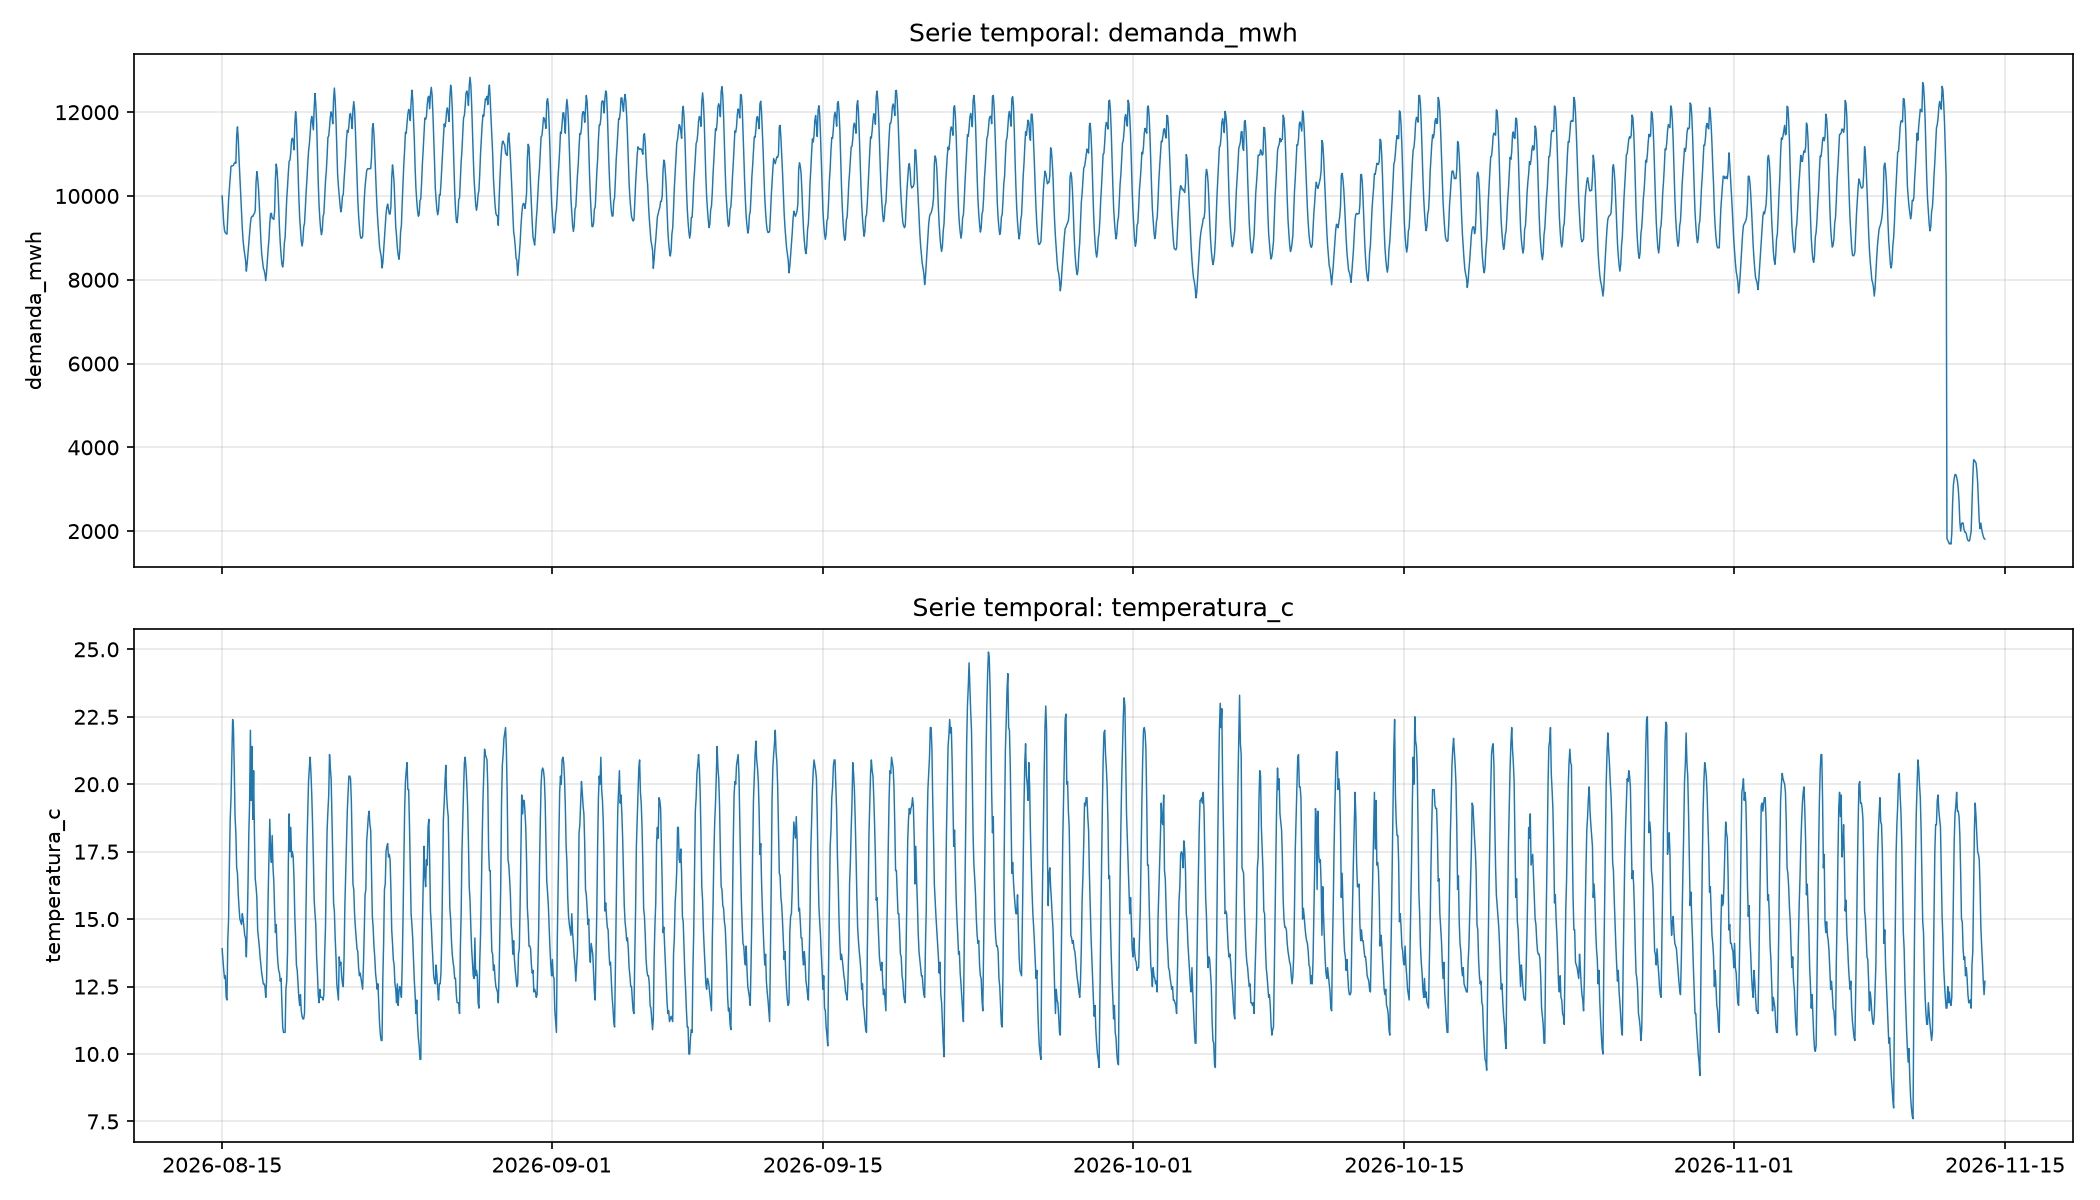
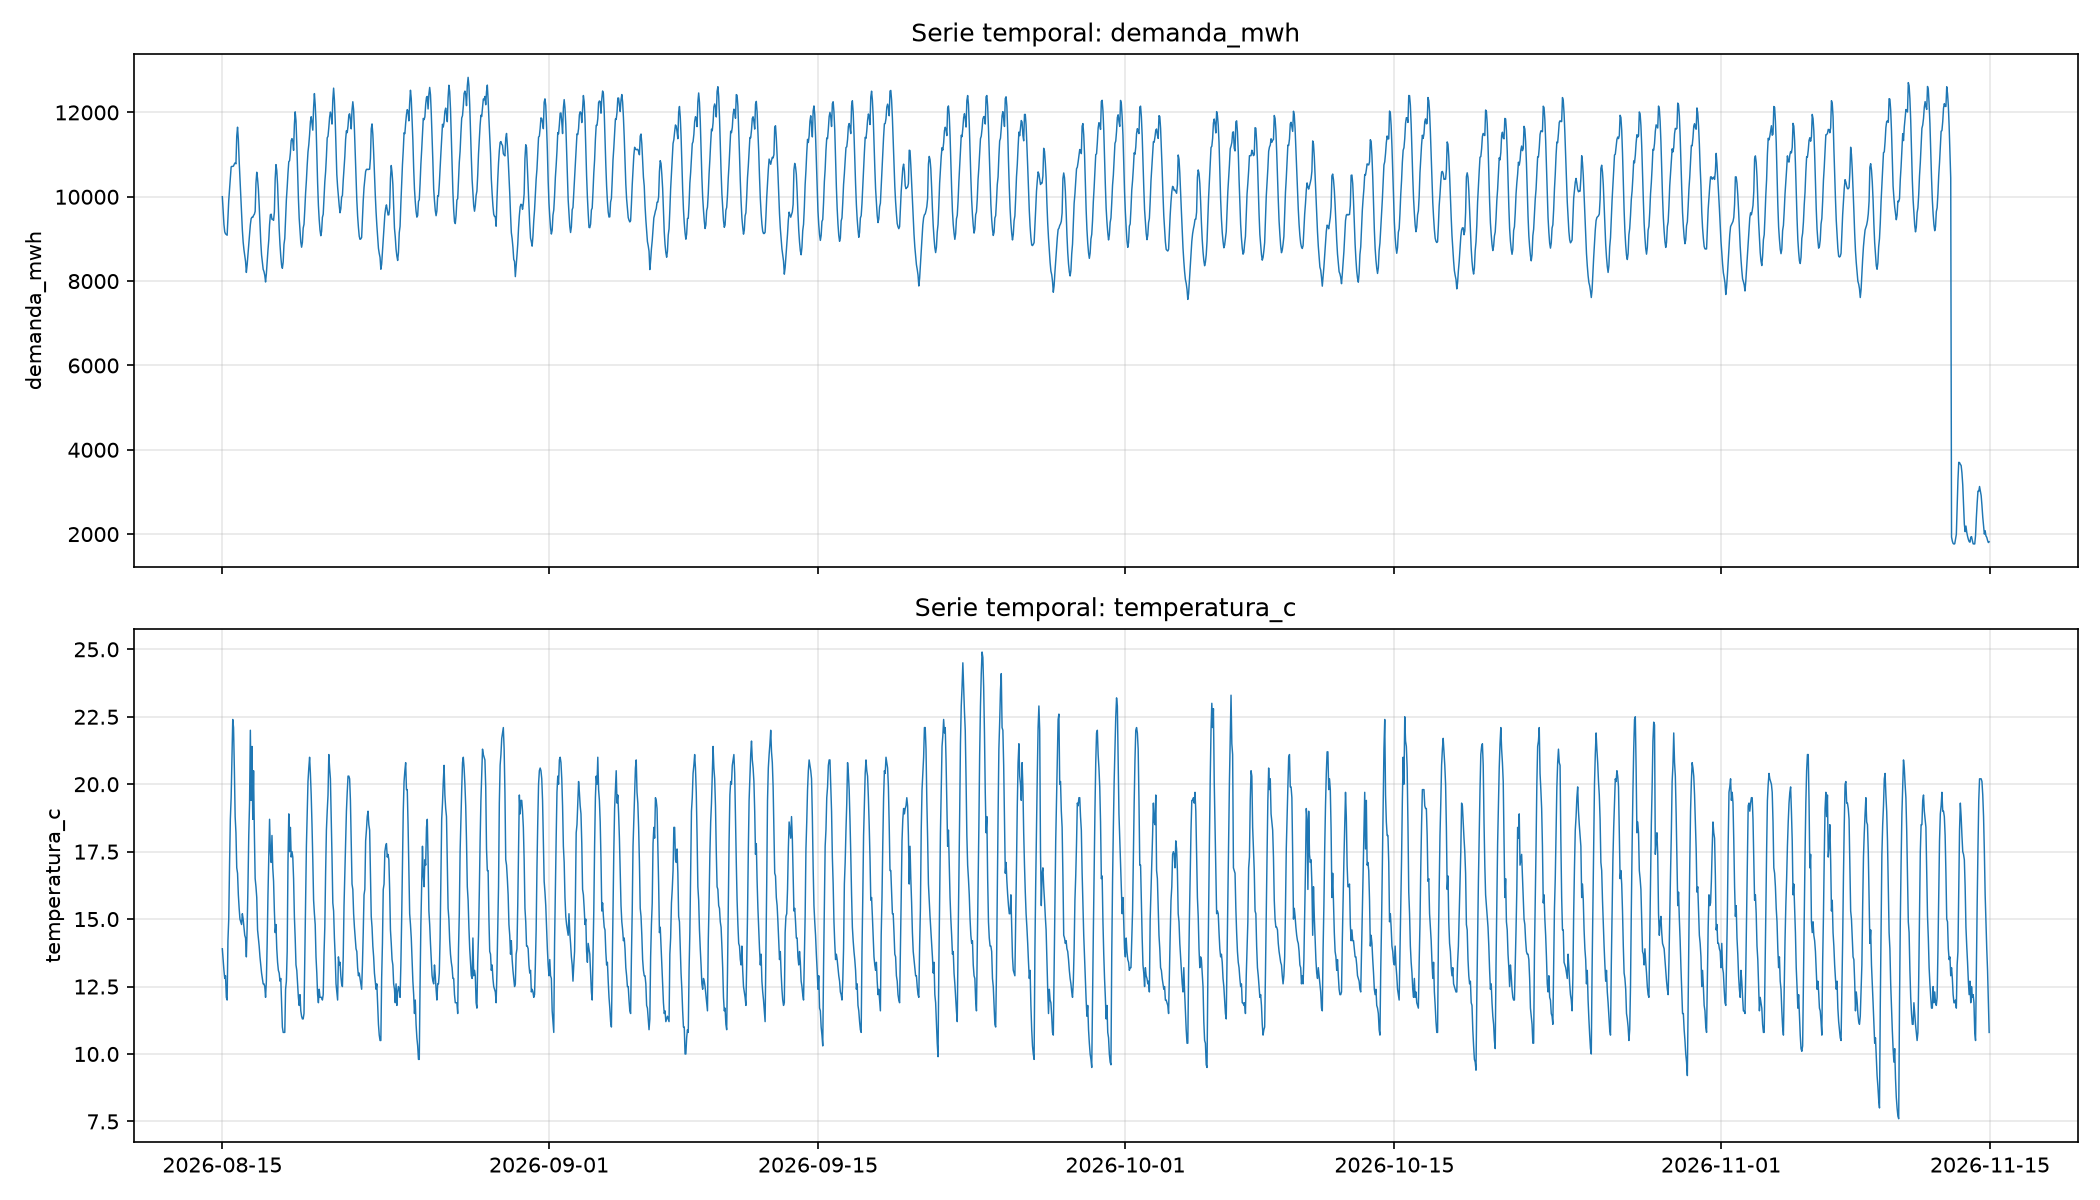
ejercicio de rollback manual actualizado

diff --git a/codigo/rollback_manual.py b/codigo/rollback_manual.py
@@ -32,6 +32,7 @@ ejecutar_comando([
 ])
 
 print("4. Restaurar el archivo datos/xm_demanda.csv a la versión V3")
+ejecutar_comando(["dvc", "pull", "datos/xm_demanda.csv"])
 ejecutar_comando(["dvc", "checkout", "datos/xm_demanda.csv"])
 
 print("5. Verificar que el archivo datos/xm_demanda.csv ha sido restaurado a la versión V3")

diff --git a/reports/reporte_entrega.md b/reports/reporte_entrega.md
@@ -1,0 +1,38 @@
+## Varias versiones de los datos
+Se generan varias versiones de los datos:
+![alt text](image.png)
+## Rollback a versión deseada de los datos
+Se configura un script que permite regresar a la versión de los datos de diferentes formas.
+1. Como me encontraba en la versión V3, usé el script para volver a los datos de V1.
+Previsualizar una restauración:
+
+```bash
+.venv/bin/python -m codigo.rollback_version v1
+```
+
+Restaurar una versión:
+
+```bash
+.venv/bin/python -m codigo.rollback_version v1 --confirmar
+```
+2. Configuré manualmente los comandos a ejecutar para hacer rollback a la versión V3. Resultado de la ejecución:
+![alt text](image-1.png)
+![alt text](image-2.png)
+
+## EDA
+Se realiza análisis de la V3 de los datos.
+
+### Serie temporal
+La gráfica muestra la evolución horaria de la demanda y la temperatura en la versión V3.
+
+![Serie temporal de demanda y temperatura](serie_temporal.png)
+
+### Distribuciones
+Los histogramas permiten observar la forma y frecuencia de los valores de demanda y temperatura.
+
+![Distribuciones de las variables](distribuciones.png)
+
+### Diagramas de caja
+Los diagramas de caja ayudan a identificar visualmente los posibles valores atípicos de cada variable.
+
+![Diagramas de caja de las variables](diagramas_caja.png)

diff --git a/reports/reporte_calidad_eda.md b/reports/reporte_calidad_eda.md
@@ -1,8 +1,8 @@
 # Reporte de calidad y EDA
 
 - Archivo analizado: `datos/xm_demanda.csv`
-- Observaciones: **2184**
-- Rango: **2026-08-15 00:00:00** a **2026-11-13 23:00:00**
+- Observaciones: **2208**
+- Rango: **2026-08-15 00:00:00** a **2026-11-14 23:00:00**
 - Índice ordenado ascendentemente: **True**
 - Timestamps duplicados: **0**
 - Huecos horarios: **0**
@@ -12,8 +12,8 @@
 
 | Variable | Cantidad | Porcentaje | Límite inferior | Límite superior |
 |---|---:|---:|---:|---:|
-| demanda_mwh | 48 | 2.20% | 6187.470 | 14421.893 |
-| temperatura_c | 0 | 0.00% | 4.800 | 26.400 |
+| demanda_mwh | 48 | 2.17% | 6199.433 | 14431.876 |
+| temperatura_c | 0 | 0.00% | 4.550 | 26.550 |
 
 ## Evidencias gráficas
 
